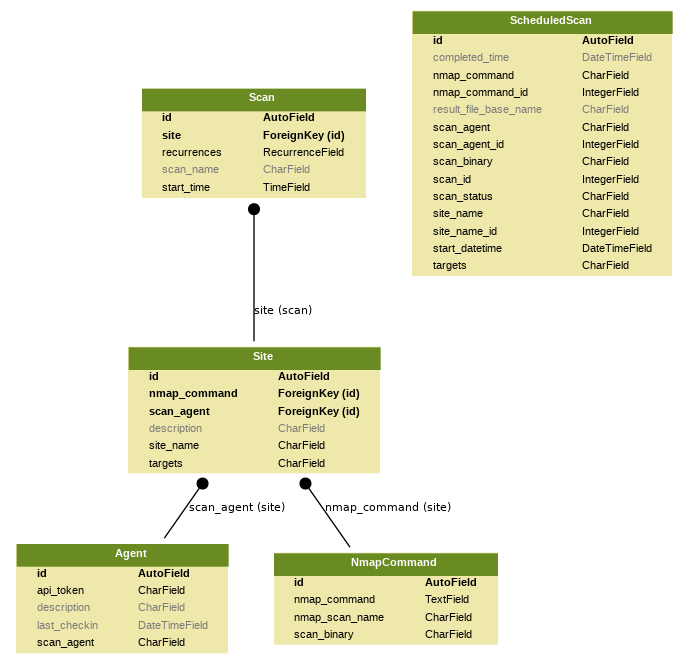
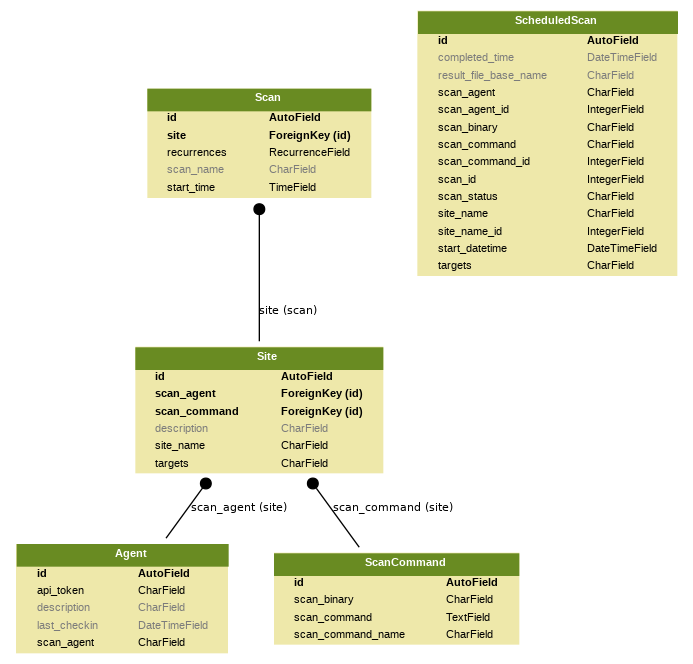
Renamed all instaces of nmap to scan where applicable

diff --git a/master/django_scantron/templates/django_scantron/scheduled_scan_list.html b/master/django_scantron/templates/django_scantron/scheduled_scan_list.html
@@ -35,7 +35,7 @@ Scheduled Scans
             <td>{{ scan.scan_agent }}</td>
             <td>{{ scan.start_time|date:"Y-m-j H:i:s" }}</td>
             <td>{{ scan.scan_binary }}</td>
-            <td>{{ scan.scan_binary }} {{ scan.nmap_command }}</td>
+            <td>{{ scan.scan_binary }} {{ scan.scan_command }}</td>
             <td>{{ scan.scan_status }}</td>
             <td>{{ scan.completed_time|date:"Y-m-j H:i:s" }}</td>
             {% if scan.scan_binary == "nmap" %}

diff --git a/master/django_scantron/templates/base.html b/master/django_scantron/templates/base.html
@@ -122,9 +122,9 @@
         {% endif %}
         {% if request.user.is_superuser %}
         <li>
-            <a target="_blank" href="/scantron-admin/django_scantron/nmapcommand/">
+            <a target="_blank" href="/scantron-admin/django_scantron/scancommand/">
                 <i class="fa fa-signal"></i>
-                <span>nmap commands</span>
+                <span>Scan commands</span>
             </a>
         </li>
         {% endif %}

diff --git a/agent/modules/scanner.py b/agent/modules/scanner.py
@@ -12,14 +12,14 @@ from . import utils
 from . import logger
 
 
-def build_masscan_command(nmap_command, target_file, json_file, http_useragent):
+def build_masscan_command(scan_command, target_file, json_file, http_useragent):
     """Builds the masscan command."""
 
     # Can only have 1 file output type.
     file_options = f"-iL {target_file} -oJ {json_file} --http-user-agent {http_useragent}"
 
-    # nmap_command is used for both nmap and masscan commands.
-    masscan_command = f"masscan {nmap_command} {file_options}"
+    # scan_command is used for both nmap and masscan commands.
+    masscan_command = f"masscan {scan_command} {file_options}"
 
     return masscan_command
 
@@ -35,10 +35,10 @@ def scan_site(scan_job_dict):
         # Assign variables.
         site_name = scan_job["site_name"]
         scan_binary = scan_job["scan_binary"]
-        nmap_command = scan_job["nmap_command"]  # Also used for masscan.
+        scan_command = scan_job["scan_command"]  # Also used for masscan.
         result_file_base_name = scan_job["result_file_base_name"]
 
-        nmap_results_dir = config_data["nmap_results_dir"]
+        scan_results_dir = config_data["scan_results_dir"]
 
         target_files_dir = config_data["target_files_dir"]
         target_file = os.path.join(target_files_dir, f"{result_file_base_name}.targets")
@@ -53,8 +53,8 @@ def scan_site(scan_job_dict):
             fh.write(f"{targets}")
 
         # Setup folder structure.
-        pending_files_dir = os.path.join(nmap_results_dir, "pending")
-        complete_files_dir = os.path.join(nmap_results_dir, "complete")
+        pending_files_dir = os.path.join(scan_results_dir, "pending")
+        complete_files_dir = os.path.join(scan_results_dir, "complete")
 
         if scan_binary == "masscan":
             # Output format.
@@ -97,12 +97,12 @@ def scan_site(scan_job_dict):
                     )
 
                     # Build the masscan command.
-                    command = build_masscan_command(nmap_command, target_file, json_file, config_data["http_useragent"])
+                    command = build_masscan_command(scan_command, target_file, json_file, config_data["http_useragent"])
 
             # New scan.
             else:
                 # Build the masscan command.
-                command = build_masscan_command(nmap_command, target_file, json_file, config_data["http_useragent"])
+                command = build_masscan_command(scan_command, target_file, json_file, config_data["http_useragent"])
 
         elif scan_binary == "nmap":
             # Three different nmap scan result file types.
@@ -122,7 +122,7 @@ def scan_site(scan_job_dict):
                 file_options = "-iL {} -oG {} -oN {} -oX {} --script-args http.useragent='{}'".format(
                     target_file, gnmap_file, nmap_file, xml_file, config_data["http_useragent"]
                 )
-                command = "nmap {} {}".format(nmap_command, file_options)
+                command = "nmap {} {}".format(scan_command, file_options)
 
         else:
             logger.ROOT_LOGGER.error("Invalid scan binary specified: {}".format(scan_binary))

diff --git a/master/scan_scheduler.py b/master/scan_scheduler.py
@@ -73,9 +73,9 @@ def main():
             ROOT_LOGGER.info(f"Found scan_occurrence for today: {scan_occurrence}.")
 
         # Let's extract the remaining variables from existing database relationships.  Note that the Scan model has the
-        # Site model as a foreign key, and in turn, the Site model has foreign keys for the Agent and NmapCommand models
+        # Site model as a foreign key, and in turn, the Site model has foreign keys for the Agent and ScanCommand models
         # (see the scantron_model_graph.png for a visualization).  Therefore, if a field from the Agent or
-        # NmapCommand models is updated, it will update the Site model, and cascade to the Scan model.
+        # ScanCommand models is updated, it will update the Site model, and cascade to the Scan model.
 
         # Scan model.
         scan_id = scan.id  # Can delete in future.
@@ -90,10 +90,10 @@ def main():
         scan_agent_id = scan.site.scan_agent_id  # Can delete in future.
         scan_agent = scan.site.scan_agent.scan_agent
 
-        # NmapCommand model.
-        nmap_command_id = scan.site.nmap_command.id  # Can delete in future.
-        nmap_command = scan.site.nmap_command.nmap_command
-        scan_binary = scan.site.nmap_command.scan_binary
+        # ScanCommand model.
+        scan_command_id = scan.site.scan_command.id  # Can delete in future.
+        scan_command = scan.site.scan_command.scan_command
+        scan_binary = scan.site.scan_command.scan_binary
 
         # The ScheduledScan model acts as the sanitized endpoint for agents to determine scan jobs.  We don't want to
         # expose the other models, so we populate that ScheduledScan mdoel instead.  The actual exposed fields for the
@@ -109,7 +109,7 @@ def main():
         # Convert start_datetime datetime object to string for result_file_base_name.
         timestamp = datetime.datetime.strftime(start_datetime, "%Y%m%d_%H%M")
 
-        # Build result_file_base_name file.  "__" is used by master/nmap_results/nmap_to_csv.py to .split() site_name
+        # Build result_file_base_name file.  "__" is used by master/scan_results/nmap_to_csv.py to .split() site_name
         # and scan_agent.
         result_file_base_name = f"{clean_text(site_name)}__{clean_text(scan_agent)}__{timestamp}"
 
@@ -121,8 +121,8 @@ def main():
             "scan_agent_id": scan_agent_id,  # Can delete in future.
             "start_datetime": start_datetime,
             "scan_binary": scan_binary,
-            "nmap_command": nmap_command,
-            "nmap_command_id": nmap_command_id,  # Can delete in future.
+            "scan_command": scan_command,
+            "scan_command_id": scan_command_id,  # Can delete in future.
             "targets": targets,
             "result_file_base_name": result_file_base_name,
             "scan_status": "pending",

diff --git a/master/django_scantron/models.py b/master/django_scantron/models.py
@@ -51,8 +51,8 @@ class Agent(models.Model):
         verbose_name_plural = "Agents"
 
 
-class NmapCommand(models.Model):
-    """Model for a nmap command"""
+class ScanCommand(models.Model):
+    """Model for a scan command"""
 
     # fmt: off
     SCAN_BINARY = (
@@ -61,16 +61,16 @@ class NmapCommand(models.Model):
     )
     # fmt: on
 
-    id = models.AutoField(primary_key=True, verbose_name="nmap command ID")
+    id = models.AutoField(primary_key=True, verbose_name="scan command ID")
     scan_binary = models.CharField(max_length=7, choices=SCAN_BINARY, default="nmap", verbose_name="Scan binary")
-    nmap_scan_name = models.CharField(unique=True, max_length=255, verbose_name="Scan Name")
-    nmap_command = models.TextField(unique=False, verbose_name="Scan command")
+    scan_command_name = models.CharField(unique=True, max_length=255, verbose_name="Scan command name")
+    scan_command = models.TextField(unique=False, verbose_name="Scan command")
 
     def __str__(self):
-        return f"{self.scan_binary}||{self.nmap_scan_name}"
+        return f"{self.scan_binary}||{self.scan_command_name}"
 
     class Meta:
-        verbose_name_plural = "nmap Commands"
+        verbose_name_plural = "Scan Commands"
 
 
 class Site(models.Model):
@@ -100,7 +100,7 @@ class Site(models.Model):
         ],
         verbose_name="Targets",
     )
-    nmap_command = models.ForeignKey(NmapCommand, on_delete=models.CASCADE, verbose_name="Scan binary and name")
+    scan_command = models.ForeignKey(ScanCommand, on_delete=models.CASCADE, verbose_name="Scan binary and name")
     scan_agent = models.ForeignKey(Agent, on_delete=models.CASCADE, verbose_name="Scan Agent")
 
     def clean(self):
@@ -194,10 +194,10 @@ class ScheduledScan(models.Model):
     )
     start_datetime = models.DateTimeField(verbose_name="Scheduled scan start date and time")
     scan_binary = models.CharField(max_length=7, default="nmap", verbose_name="Scan binary")
-    nmap_command = models.CharField(unique=False, max_length=1024, verbose_name="nmap command")
-    nmap_command_id = models.IntegerField(
-        validators=[MinValueValidator(1, message="nmap command ID must be greater than 0")],
-        verbose_name="nmap command ID",
+    scan_command = models.CharField(unique=False, max_length=1024, verbose_name="Scan command")
+    scan_command_id = models.IntegerField(
+        validators=[MinValueValidator(1, message="Scan command ID must be greater than 0")],
+        verbose_name="Scan command ID",
     )
     targets = models.CharField(
         unique=False,

diff --git a/master/django_scantron/api/serializers.py b/master/django_scantron/api/serializers.py
@@ -3,7 +3,7 @@ from rest_framework import serializers
 # fmt: off
 from django_scantron.models import (
     Agent,
-    NmapCommand,
+    ScanCommand,
     Scan,
     ScheduledScan,
     Site,
@@ -20,14 +20,14 @@ class AgentSerializer(serializers.ModelSerializer):
         fields = ("scan_agent", "description", "api_token",)
 
 
-class NmapCommandSerializer(serializers.ModelSerializer):
+class ScanCommandSerializer(serializers.ModelSerializer):
     class Meta:
-        model = NmapCommand
-        fields = ("scan_binary", "nmap_scan_name", "nmap_command",)
+        model = ScanCommand
+        fields = ("scan_binary", "scan_command_name", "scan_command",)
 
 
 class SiteSerializer(serializers.ModelSerializer):
-    nmap_command = serializers.StringRelatedField(many=False)
+    scan_command = serializers.StringRelatedField(many=False)
     scan_agent = serializers.StringRelatedField(many=False)
 
     # Separate validation needed for DRF; doesn't use model's clean() function anymore.
@@ -53,7 +53,7 @@ class SiteSerializer(serializers.ModelSerializer):
             "site_name",
             "description",
             "targets",
-            "nmap_command",
+            "scan_command",
             "scan_agent",
         )
 
@@ -77,7 +77,7 @@ class ScheduledScanSerializer(serializers.ModelSerializer):
             "scan_agent",
             "start_datetime",
             "scan_binary",
-            "nmap_command",
+            "scan_command",
             "targets",
             "scan_status",
             "completed_time",

diff --git a/master/django_scantron/admin.py b/master/django_scantron/admin.py
@@ -9,9 +9,9 @@ class AgentAdmin(admin.ModelAdmin):
     readonly_fields = ("id", "scan_agent", "api_token")
 
 
-class NmapCommandAdmin(admin.ModelAdmin):
+class ScanCommandAdmin(admin.ModelAdmin):
 
-    list_display = ("id", "scan_binary", "nmap_scan_name", "nmap_command")
+    list_display = ("id", "scan_binary", "scan_command_name", "scan_command")
 
 
 class ScanAdmin(admin.ModelAdmin):
@@ -22,7 +22,7 @@ class ScanAdmin(admin.ModelAdmin):
 
 
 class SiteAdmin(admin.ModelAdmin):
-    list_display = ("id", "site_name", "description", "targets", "nmap_command", "scan_agent")
+    list_display = ("id", "site_name", "description", "targets", "scan_command", "scan_agent")
 
 
 class ScheduledScanAdmin(admin.ModelAdmin):
@@ -36,8 +36,8 @@ class ScheduledScanAdmin(admin.ModelAdmin):
         "scan_agent_id",
         "start_datetime",
         "scan_binary",
-        "nmap_command",
-        "nmap_command_id",
+        "scan_command",
+        "scan_command_id",
         "targets",
         "scan_status",
         "completed_time",
@@ -52,7 +52,7 @@ def _register(model, admin_class):
 
 
 _register(models.Agent, AgentAdmin)
-_register(models.NmapCommand, NmapCommandAdmin)
+_register(models.ScanCommand, ScanCommandAdmin)
 _register(models.Scan, ScanAdmin)
 _register(models.ScheduledScan, ScheduledScanAdmin)
 _register(models.Site, SiteAdmin)

diff --git a/master/django_scantron/api/views.py b/master/django_scantron/api/views.py
@@ -6,7 +6,7 @@ from rest_framework import viewsets
 
 from django_scantron.api.serializers import (
     AgentSerializer,
-    NmapCommandSerializer,
+    ScanCommandSerializer,
     ScanSerializer,
     ScheduledScanSerializer,
     SiteSerializer,
@@ -15,7 +15,7 @@ from django_scantron.api.serializers import (
 # fmt: off
 from django_scantron.models import (
     Agent,
-    NmapCommand,
+    ScanCommand,
     Scan,
     ScheduledScan,
     Site,
@@ -61,18 +61,18 @@ class AgentViewSet(DefaultsMixin, viewsets.ModelViewSet):
         return queryset
 
 
-class NmapCommandViewSet(DefaultsMixin, viewsets.ModelViewSet):
-    """API CRUD operations for NmapCommand Model."""
+class ScanCommandViewSet(DefaultsMixin, viewsets.ModelViewSet):
+    """API CRUD operations for ScanCommand Model."""
 
-    model = NmapCommand
-    serializer_class = NmapCommandSerializer
+    model = ScanCommand
+    serializer_class = ScanCommandSerializer
 
     def get_queryset(self):
         user = self.request.user
 
         # Don't filter results for super users.
         if user.is_superuser:
-            queryset = NmapCommand.objects.all()
+            queryset = ScanCommand.objects.all()
 
         # Return empty queryset.
         else:

diff --git a/agent/agent.py b/agent/agent.py
@@ -15,7 +15,7 @@ import time
 # Custom Python libraries.
 import modules.api
 import modules.logger
-import modules.nmap_scanner
+import modules.scanner
 
 
 class Worker(threading.Thread):
@@ -35,8 +35,8 @@ class Worker(threading.Thread):
 
             try:
                 # Kick off scan.
-                nmap_process = multiprocessing.Process(target=modules.nmap_scanner.scan_site, args=(scan_job_dict,))
-                nmap_process.start()
+                scan_process = multiprocessing.Process(target=modules.scanner.scan_site, args=(scan_job_dict,))
+                scan_process.start()
 
             except Exception as e:
                 modules.logger.ROOT_LOGGER.error("Failed to start scan. Exception: {}".format(e))
@@ -127,7 +127,7 @@ class Agent:
 
 
 if __name__ == "__main__":
-    parser = argparse.ArgumentParser(description="Scantron nmap scan agent")
+    parser = argparse.ArgumentParser(description="Scantron scan agent")
     parser.add_argument("-c", dest="config_file", action="store", required=True, help="Configuration file.")
     args = parser.parse_args()
 

diff --git a/master/scan_results/masscan_json_to_csv.py b/master/scan_results/masscan_json_to_csv.py
@@ -69,8 +69,8 @@ def main():
     root_dir = "/home/scantron/master"
 
     # Build directory paths.
-    complete_dir = os.path.join(root_dir, "nmap_results", "complete")
-    processed_dir = os.path.join(root_dir, "nmap_results", "processed")
+    complete_dir = os.path.join(root_dir, "scan_results", "complete")
+    processed_dir = os.path.join(root_dir, "scan_results", "processed")
     for_splunk_dir = os.path.join(root_dir, "for_splunk")
 
     # Grab a list of json files from the "complete" folder.
@@ -102,7 +102,7 @@ def main():
                     for port in result["ports"]:
 
                         # Conforming key values to what Splunk is expecting with
-                        # scantron/master/nmap_results/nmap_to_csv.py
+                        # scantron/master/scan_results/nmap_to_csv.py
                         result_dict = {
                             "starttime": result["timestamp"],
                             "endtime": result["timestamp"],

diff --git a/master/django_scantron/scan/views.py b/master/django_scantron/scan/views.py
@@ -102,7 +102,7 @@ class ScanCreateView(LoginRequiredMixin, CreateView):
     login_url = "/login/"
     model = Scan
     form_class = ScanForm
-    fields = ["site_name", "nmap_command", "scan_type", "target_file", "scan_agent", "start_time"]
+    fields = ["site_name", "scan_command", "scan_type", "target_file", "scan_agent", "start_time"]
     template_name = "django_scantron/scan_create.html"
     success_url = reverse_lazy("scan_list")
 
@@ -156,7 +156,7 @@ class ScanUpdateView(LoginRequiredMixin, UpdateView):
     login_url = "/login/"
     model = Scan
     form_class = ScanForm
-    fields = ["site_name", "nmap_command", "scan_type", "target_file", "scan_agent", "start_time"]
+    fields = ["site_name", "scan_command", "scan_type", "target_file", "scan_agent", "start_time"]
     template_name = "django_scantron/scan_update.html"
     initial = {}
     slug_field = "slug"

diff --git a/master/django_scantron/api/urls.py b/master/django_scantron/api/urls.py
@@ -9,7 +9,7 @@ from django_scantron.api import views
 # base_name requirement: http://www.django-rest-framework.org/api-guide/routers/#usage
 router = routers.DefaultRouter(trailing_slash=False)
 router.register(r"agents", views.AgentViewSet, base_name="agents")
-router.register(r"nmap_commands", views.NmapCommandViewSet, base_name="nmap_commands")
+router.register(r"scan_commands", views.ScanCommandViewSet, base_name="scan_commands")
 router.register(r"scans", views.ScanViewSet, base_name="scans")
 router.register(r"scheduled_scans", views.ScheduledScanViewSet, base_name="scheduled_scans")
 router.register(r"sites", views.SiteViewSet, base_name="sites")
